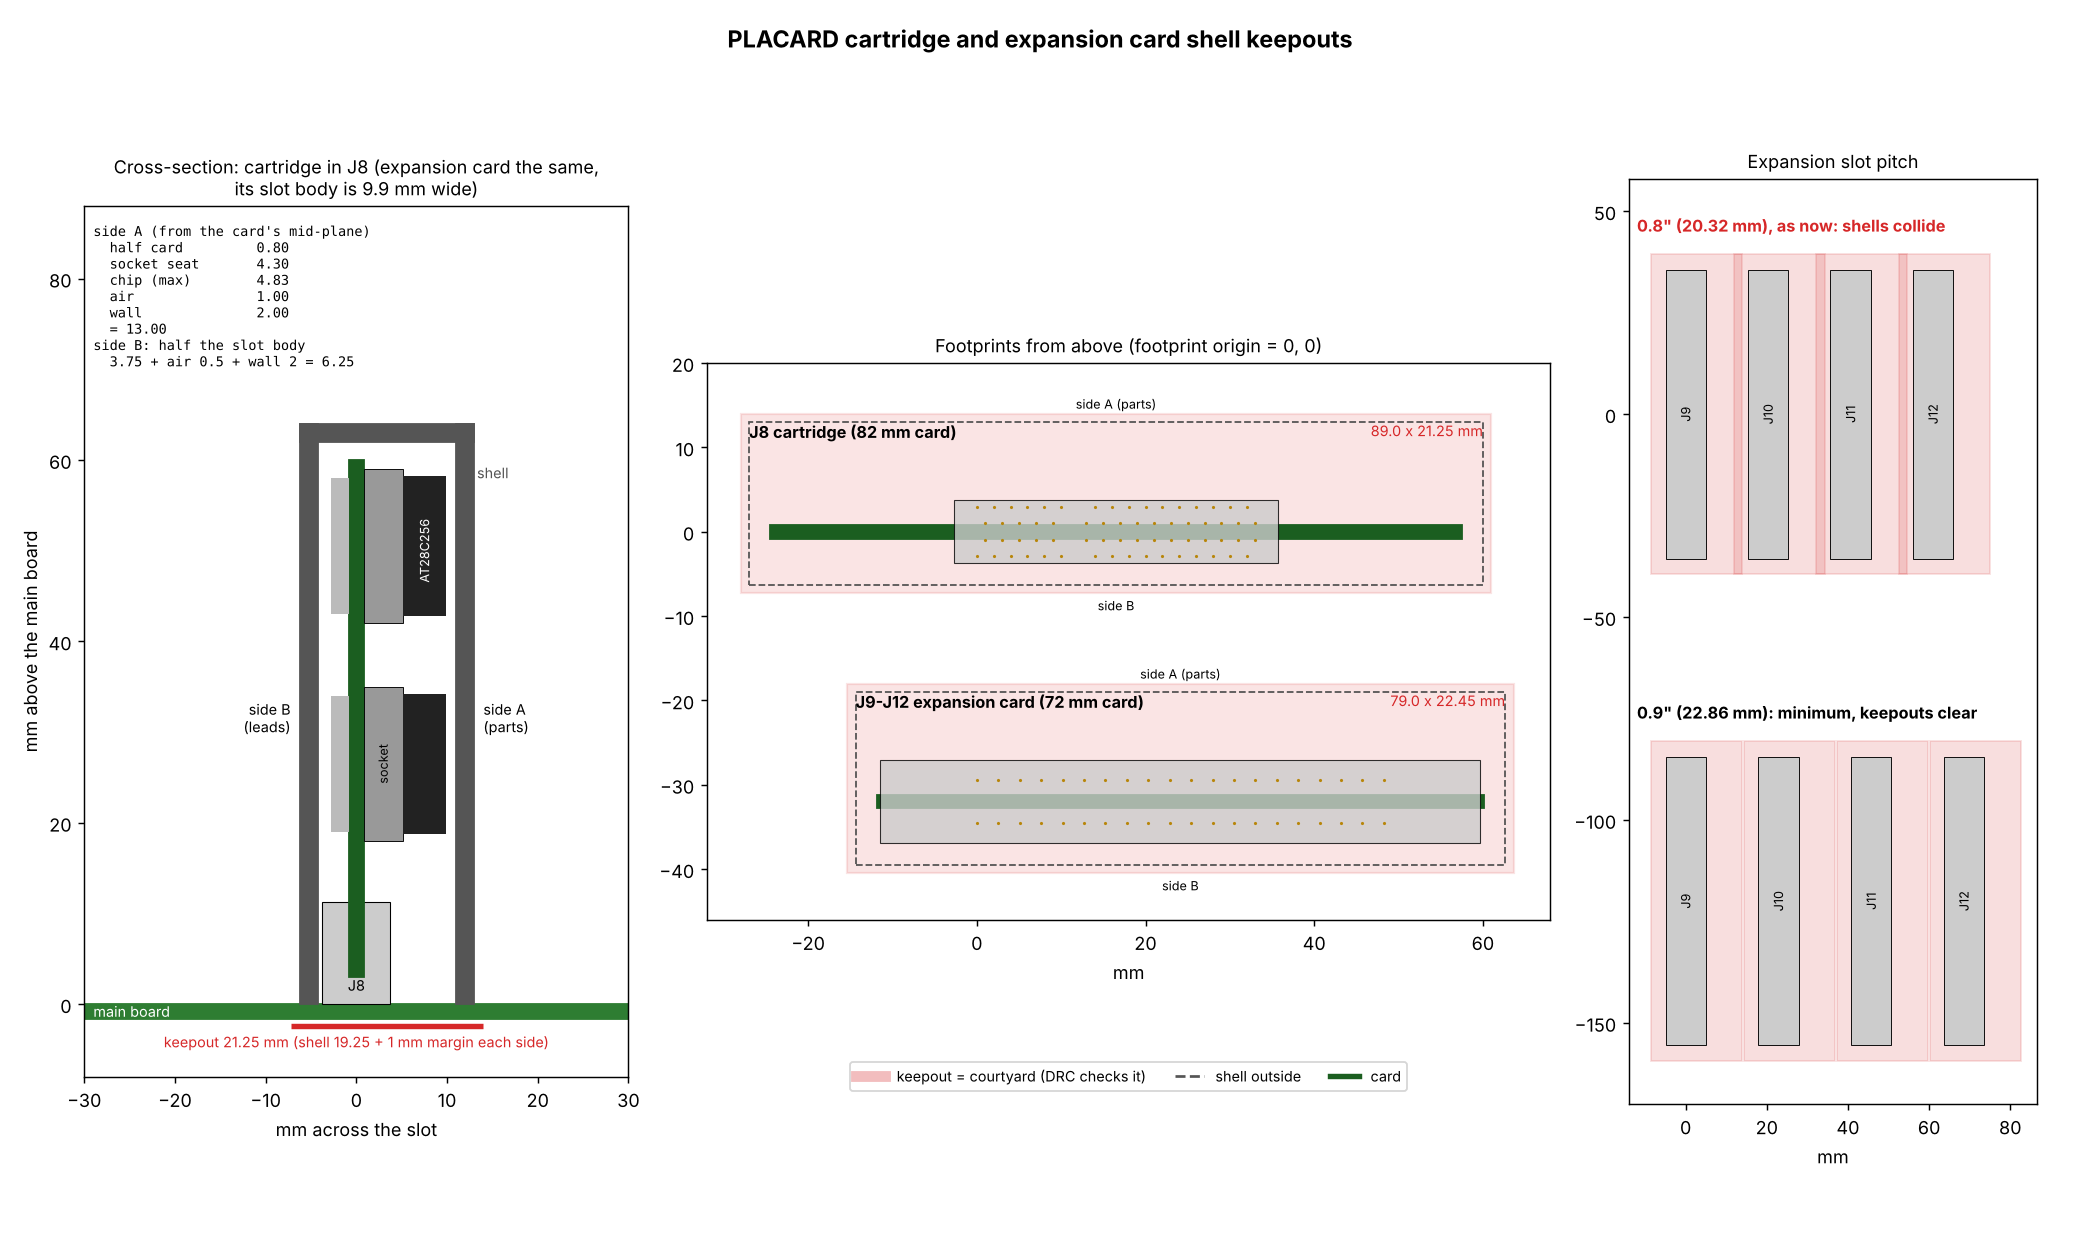
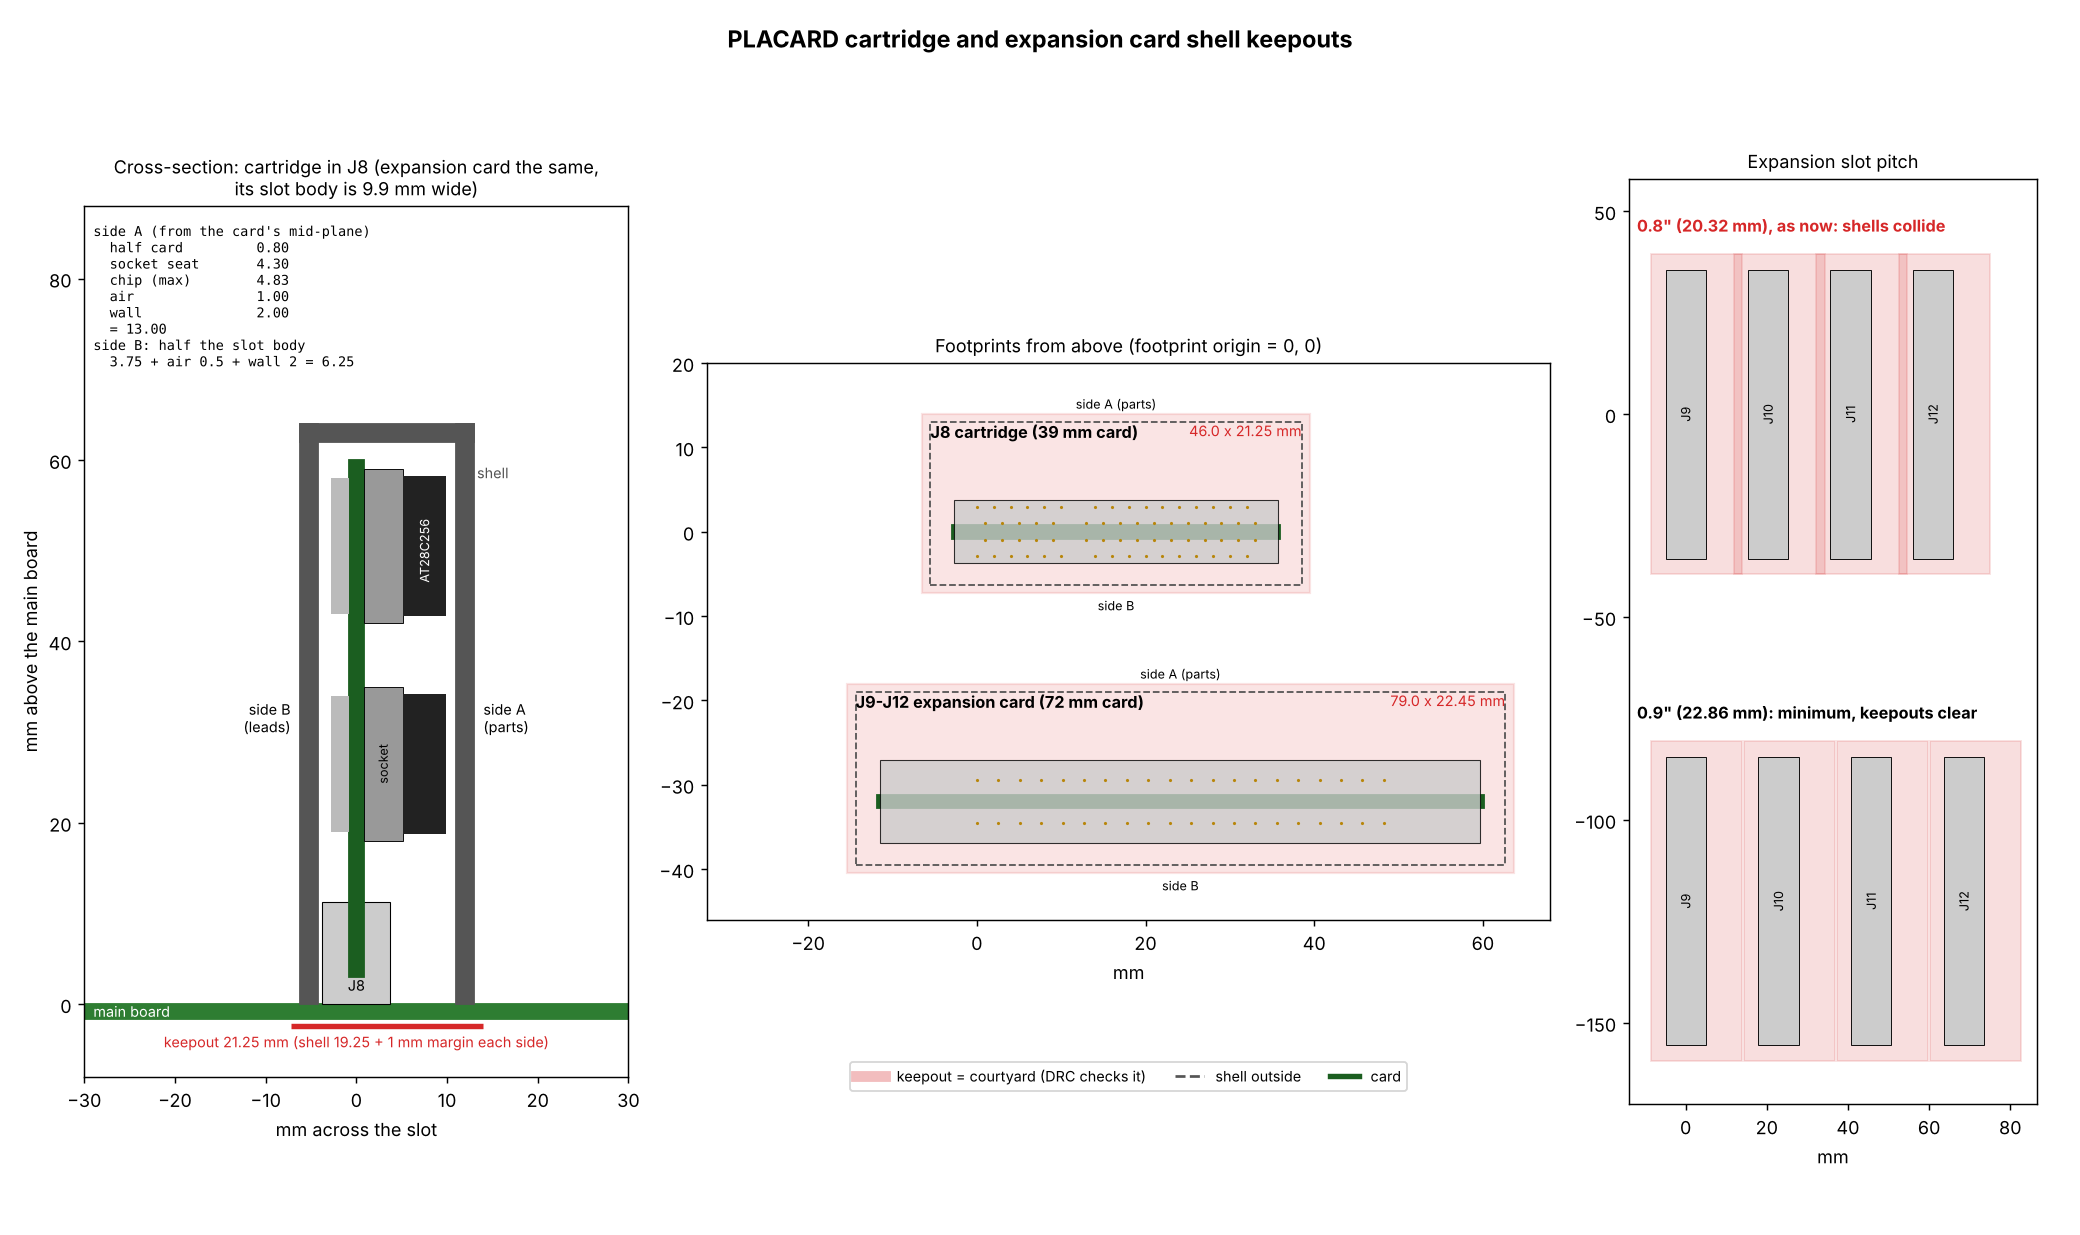
Cartridge chips lie horizontally: card 39 mm wide, J8 keepout 46 mm
Placement study gen_cart_placement.py draws the 64K (5 chips, 39 x 97 mm)
and 32K (3 chips, 39 x 61 mm) cartridge cards from the real footprints.
The widest socket courtyard is 36.25 mm, so J8's 39 mm body sets the card
width; the J8 courtyard (shell keepout) shrinks from 89 to 46 mm.

Claude-Session: https://claude.ai/code/session_017zNY7d3qzYYkfq8eNVBGgo

Changed region(s): [[0.3438, 0.3077, 0.7188, 0.4923]]

diff --git a/src/scripts/gen_cart_placement.py b/src/scripts/gen_cart_placement.py
@@ -1,0 +1,192 @@
+#!/usr/bin/env python3
+"""
+gen_cart_placement.py - placement study for the ROM cartridge card: how wide
+and tall the card must be with its chips lying horizontally (long side
+parallel to the edge fingers), for the 64K build (5 chips) and the 32K
+build (3 chips: U1 PLD, U3 ROM, U5 SRAM; ROM.md, JP1).
+
+    python3 gen_cart_placement.py
+
+Draws docs/cart_placement_5chip.png and docs/cart_placement_3chip.png from
+the real footprints in kicad/lib/placard.pretty (socket outline, courtyard,
+chip-puller boxes, pads) and KiCad's disc capacitor.  No board file is
+written: this only fixes the card outline that the shell keepout on J8
+(gen_kicad_connectors.py CART_W) is sized from.
+
+Card coordinates: x along the edge fingers (x = 0 at the card's left edge),
+y up from the bottom of the finger tab.  The card is centred on the middle
+of J8's contacts.
+
+Date: 2026-10-23
+"""
+
+import math
+import os
+import re
+import sys
+
+import matplotlib
+matplotlib.use("Agg")
+import matplotlib.pyplot as plt
+from matplotlib.patches import Rectangle, Circle, FancyBboxPatch
+
+HERE = os.path.dirname(os.path.abspath(__file__))
+sys.path.insert(0, HERE)
+import gen_kicad_connectors as gc  # noqa: E402
+
+LIB = os.path.normpath(os.path.join(HERE, "..", "..", "kicad", "lib", "placard.pretty"))
+STOCK = os.environ.get("KICAD7_FOOTPRINT_DIR", "/usr/share/kicad/footprints")
+DOCS = os.path.normpath(os.path.join(HERE, "..", "..", "docs"))
+
+SLOT_LEN = 39.0              # 87715-9106 body length: the shell's skirt goes round it
+CARD_W = gc.CART_W           # card width (= SLOT_LEN: the slot, not the chips, sets it)
+TAB_H = 8.0                  # finger tab below the card's shoulder (inside the slot)
+PART_Y0 = TAB_H + 2.0        # lowest part edge: 2 mm above the shoulder, clear of the slot top
+ROW_GAP = 3.5                # courtyard to courtyard between rows: room for the row's 100n disc
+TOP_MARGIN = 1.0             # top courtyard to the card's top edge
+
+# middle of J8's contacts in card x: the card is centred on it
+MID = CARD_W / 2
+FINGER_X0 = MID - 16.5       # x of contact 1 (J8 footprint x = 0)
+
+
+def parse(path):
+    """Lines on F.Fab, F.CrtYd, Eco1.User and pads from a .kicad_mod (footprint coordinates)."""
+    src = open(path).read()
+    lines = []
+    for m in re.finditer(r'\(fp_line \(start ([-\d.]+) ([-\d.]+)\) \(end ([-\d.]+) ([-\d.]+)\).*?\(layer "([^"]+)"\)', src):
+        x1, y1, x2, y2 = map(float, m.groups()[:4])
+        lines.append((m.group(5), x1, y1, x2, y2))
+    pads = []
+    for m in re.finditer(r'\(pad "([^"]*)" thru_hole (\w+) \(at ([-\d.]+) ([-\d.]+)(?: [-\d.]+)?\) \(size ([-\d.]+) ([-\d.]+)\)', src):
+        pads.append((m.group(1), m.group(2), float(m.group(3)), float(m.group(4)), float(m.group(5)), float(m.group(6))))
+    return lines, pads
+
+
+def bbox(lines, layer):
+    xs = [v for l in lines if l[0] == layer for v in (l[1], l[3])]
+    ys = [v for l in lines if l[0] == layer for v in (l[2], l[4])]
+    return min(xs), min(ys), max(xs), max(ys)
+
+
+class Part:
+    def __init__(self, ref, value, path, rot):
+        self.ref, self.value, self.rot = ref, value, rot
+        self.lines, self.pads = parse(path)
+        self.at = (0.0, 0.0)
+
+    def tf(self, x, y):
+        """Footprint -> card coordinates: rotate (degrees, y up on the card), then move."""
+        a = math.radians(self.rot)
+        rx, ry = x * math.cos(a) - y * math.sin(a), x * math.sin(a) + y * math.cos(a)
+        return self.at[0] + rx, self.at[1] + ry
+
+    def box(self, layer):
+        x0, y0, x1, y1 = bbox(self.lines, layer)
+        pts = [self.tf(x, y) for x, y in [(x0, y0), (x1, y0), (x1, y1), (x0, y1)]]
+        return (min(p[0] for p in pts), min(p[1] for p in pts),
+                max(p[0] for p in pts), max(p[1] for p in pts))
+
+    def place(self, cx, y_bottom):
+        """Courtyard centred on x = cx, its bottom edge on y_bottom."""
+        self.at = (0.0, 0.0)
+        x0, y0, x1, y1 = self.box("F.CrtYd")
+        self.at = (cx - (x0 + x1) / 2, y_bottom - y0)
+
+    def draw(self, ax):
+        for layer, x1, y1, x2, y2 in self.lines:
+            style = {"F.Fab": dict(color="#333333", lw=0.9),
+                     "F.CrtYd": dict(color="#d62728", lw=0.5, ls=(0, (2, 2))),
+                     "Eco1.User": dict(color="#9467bd", lw=0.35)}.get(layer)
+            if style:
+                p, q = self.tf(x1, y1), self.tf(x2, y2)
+                ax.plot([p[0], q[0]], [p[1], q[1]], **style)
+        for num, shape, x, y, w, h in self.pads:
+            px, py = self.tf(x, y)
+            if shape == "rect":
+                ax.add_patch(Rectangle((px - w / 2, py - h / 2), w, h, color="#b8860b"))
+            else:
+                ax.add_patch(Circle((px, py), w / 2, color="#b8860b"))
+        x0, y0, x1, y1 = self.box("F.CrtYd")
+        size = 2.2 if (y1 - y0) > 12 else 1.8
+        ax.text((x0 + x1) / 2, (y0 + y1) / 2, "%s  %s" % (self.ref, self.value), ha="center",
+                va="center", fontsize=7 if size > 2 else 6, weight="bold", color="#1f3b73")
+
+
+def sockets(build):
+    w15 = os.path.join(LIB, "DIP-28_W15.24mm_Socket_Puller.kicad_mod")
+    w7 = os.path.join(LIB, "DIP-28_W7.62mm_Socket_Puller.kicad_mod")
+    w24 = os.path.join(LIB, "DIP-24_W7.62mm_Socket_Puller.kicad_mod")
+    # bottom (next to the fingers) to top: the PLD drives the loader signals, the ROMs go
+    # on top where they are easiest to take out
+    rows = [("U1", "ATF22V10C-7PX", w24, "C1"),
+            ("U4", "AS7C256C", w7, "C4"), ("U5", "AS7C256C", w7, "C5"),
+            ("U2", "AT28C256", w15, "C2"), ("U3", "AT28C256", w15, "C3")]
+    if build == 3:
+        rows = [r for r in rows if r[0] in ("U1", "U5", "U3")]
+    return rows
+
+
+def layout(build):
+    cap = os.path.join(STOCK, "Capacitor_THT.pretty", "C_Disc_D5.0mm_W2.5mm_P5.00mm.kicad_mod")
+    parts = []
+    y = PART_Y0
+    for ref, value, path, cref in sockets(build):
+        # pin 1 at the bottom left: footprint +y (down the pin row) turned to card +x
+        p = Part(ref, value, path, 90)
+        p.place(MID, y)
+        parts.append(p)
+        y = p.box("F.CrtYd")[3] + ROW_GAP
+        c = Part(cref, "100n", cap, 0)
+        c.place(CARD_W - 6.0, y - ROW_GAP / 2 - 1.5)
+        parts.append(c)
+    top = y - ROW_GAP + TOP_MARGIN
+    # the last decap sits above the top row: the card ends above it
+    top = max(top, parts[-1].box("F.CrtYd")[3] + TOP_MARGIN)
+    return parts, top
+
+
+def draw(build, out):
+    parts, top = layout(build)
+    fig, ax = plt.subplots(figsize=(5.0, 1.5 + top / 11.0), dpi=150)
+    # card: body plus the finger tab
+    tab0, tab1 = FINGER_X0 - 1.25, FINGER_X0 + 33 + 1.25
+    ax.add_patch(Rectangle((0, TAB_H), CARD_W, top - TAB_H, fc="#2e7d32", alpha=0.18, ec="#1b5e20", lw=1.2))
+    ax.add_patch(Rectangle((tab0, 0), tab1 - tab0, TAB_H, fc="#2e7d32", alpha=0.18, ec="#1b5e20", lw=1.2))
+    for n in range(1, 33):
+        x = FINGER_X0 + (n - 1 if n <= 11 else n + 1)
+        ax.add_patch(Rectangle((x - 0.35, 0.6), 0.7, 5.5, color="#d4a017"))
+    kx = FINGER_X0 + 11.5
+    ax.add_patch(Rectangle((kx - 0.6, 0), 1.2, 4.0, color="white", ec="#1b5e20", lw=0.8))
+    ax.text(kx, 4.6, "key", ha="center", fontsize=6)
+    for p in parts:
+        p.draw(ax)
+    # dimensions
+    ax.annotate("", (0, top + 3), (CARD_W, top + 3), arrowprops=dict(arrowstyle="<->", lw=0.8))
+    ax.text(CARD_W / 2, top + 3.6, "card %.1f mm wide (= J8 body length)" % CARD_W, ha="center", fontsize=8)
+    ax.annotate("", (CARD_W + 3, 0), (CARD_W + 3, top), arrowprops=dict(arrowstyle="<->", lw=0.8))
+    ax.text(CARD_W + 4, top / 2, "%.1f mm\n(%.1f above\nthe tab)" % (top, top - TAB_H), va="center", fontsize=8)
+    ax.text(-1.0, TAB_H + 0.8, "shoulder:\nrests over\nJ8's top", ha="right", va="bottom", fontsize=6, color="#555555")
+    ax.text(-1.0, TAB_H / 2, "tab in J8\n(%.0f mm)" % TAB_H, ha="right", va="center", fontsize=6, color="#555555")
+    ax.set_xlim(-14, CARD_W + 17)
+    ax.set_ylim(-7, top + 8)
+    ax.set_aspect("equal")
+    ax.axis("off")
+    ax.set_title("ROM cartridge, %s build (%d chips), chips horizontal, side A" %
+                 ("64K" if build == 5 else "32K", build), fontsize=9, weight="bold")
+    ax.text(CARD_W / 2, -2.0, "red dashed: courtyard; purple: chip-puller room\n(may hang past the card edge)",
+            ha="center", va="top", fontsize=6)
+    fig.tight_layout()
+    fig.savefig(out, bbox_inches="tight")
+    plt.close(fig)
+    widest = max(p.box("F.CrtYd")[2] - p.box("F.CrtYd")[0] for p in parts)
+    print("wrote %s: card %.1f x %.1f mm, widest courtyard %.2f mm" % (out, CARD_W, top, widest))
+
+
+def main():
+    draw(5, os.path.join(DOCS, "cart_placement_5chip.png"))
+    draw(3, os.path.join(DOCS, "cart_placement_3chip.png"))
+
+
+if __name__ == "__main__":
+    main()

diff --git a/src/scripts/gen_shell_keepout.py b/src/scripts/gen_shell_keepout.py
@@ -120,9 +120,9 @@ def top_views(ax):
     c = 19 * 2.54 / 2
     exp_pads = [((n - 1) * 2.54, y) for n in range(1, 21) for y in (2.54, -2.54)]
     top_view(ax, 16.5, gc.CART_W, (-2.75, -3.75, 35.75, 3.75), 3.75, cart_pads,
-             "J8 cartridge (82 mm card)", 0)
+             "J8 cartridge (%g mm card)" % gc.CART_W, 0)
     top_view(ax, c, gc.EXP_W, (c - 35.56, -4.95, c + 35.56, 4.95), 4.95, exp_pads,
-             "J9-J12 expansion card (72 mm card)", -32)
+             "J9-J12 expansion card (%g mm card)" % gc.EXP_W, -32)
     ax.plot([], [], color=KEEP, lw=6, alpha=0.3, label="keepout = courtyard (DRC checks it)")
     ax.plot([], [], color=SHELL, ls="--", label="shell outside")
     ax.plot([], [], color="#1b5e20", lw=3, label="card")

diff --git a/src/scripts/gen_kicad_connectors.py b/src/scripts/gen_kicad_connectors.py
@@ -109,7 +109,7 @@ CARD_LEADS = 2.0             # trimmed through-hole leads on side B
 SHELL_AIR = 0.5              # gap inside the shell, each side (1.0 over the chips)
 SHELL_WALL = 2.0             # shell wall (2 mm printed or moulded)
 MARGIN = 1.0                 # shell placement tolerance on the main board
-CART_W = 82.0                # cartridge card width: its five sockets standing in one row
+CART_W = 39.0                # cartridge card width = the J8 body (39 mm): chips lie horizontally (gen_cart_placement.py)
 EXP_W = 72.0                 # expansion card width: the slot body (71.1 mm) plus 0.5 mm a side
 
 

diff --git a/docs/EXPANSION.md b/docs/EXPANSION.md
@@ -332,15 +332,24 @@ slot, not the card.  A ZIF socket does not fit; the 100n disc capacitors
 are lower than a socketed chip (bend one over if it stands taller).  Each
 side of the keepout adds 1 mm for the shell's placement tolerance.
 
-**Length.**  The cartridge card is 82 mm wide (its five sockets standing
-in one row: two 600-mil, three 300-mil, with puller room above and
-below), centred on the middle of J8's contacts.  An expansion card is
-72 mm wide (the slot body, 71.1 mm, plus 0.5 mm a side).  The shell adds
-0.5 mm air and a 2 mm wall each end, and the keepout 1 mm more.
+**Length.**  The cartridge's chips lie horizontally (long side along the
+fingers), stacked one above another, so the card is as wide as J8's body
+(39 mm): the widest courtyard, a 28-pin socket, is 36.25 mm, and the
+shell's skirt has to go round the 39 mm slot anyway.  The chip-puller
+room at each socket end may hang past the card edge (the shell comes off
+to change a chip).  The card is centred on the middle of J8's contacts.
+`src/scripts/gen_cart_placement.py` draws the placement from the real
+footprints: the 64K build (5 chips) is 39 x 97 mm and the 32K build
+(U1, U3, U5) 39 x 61 mm, finger tab included.  An expansion card is 72 mm
+wide (the slot body, 71.1 mm, plus 0.5 mm a side).  The shell adds 0.5 mm
+air and a 2 mm wall each end, and the keepout 1 mm more.
+
+![64K cartridge placement](cart_placement_5chip.png)
+![32K cartridge placement](cart_placement_3chip.png)
 
 | Slot | Shell outside | Keepout (courtyard) | From the footprint origin |
 |---|---|---|---|
-| J8 cartridge | 87 x 19.25 mm | 89 x 21.25 mm | x -28 to 61, y -7.25 (side B) to 14 (side A) |
+| J8 cartridge | 44 x 19.25 mm | 46 x 21.25 mm | x -6.5 to 39.5, y -7.25 (side B) to 14 (side A) |
 | J9-J12 card | 77 x 20.45 mm | 79 x 22.45 mm | x -15.37 to 63.63, y -8.45 (side B) to 14 (side A) |
 
 **Expansion slot pitch.**  A card's keepout is 22.45 mm across, so the
@@ -349,10 +358,6 @@ neighbouring shells collide.  Use 0.9" (22.86 mm) or more (Justin,
 2026-10-23: a wider pitch is fine).  A card that reaches the board's back
 edge for its own connector needs that strip kept clear too; the keepout
 covers only the shell over the slot.
-
-A two-row cartridge (the two ROMs over the three SRAM/PLD sockets) would
-be about 45 mm wide, so its keepout would be about 52 mm long, but the
-cartridge would stand about 95 mm tall.
 
 ## To check
 
